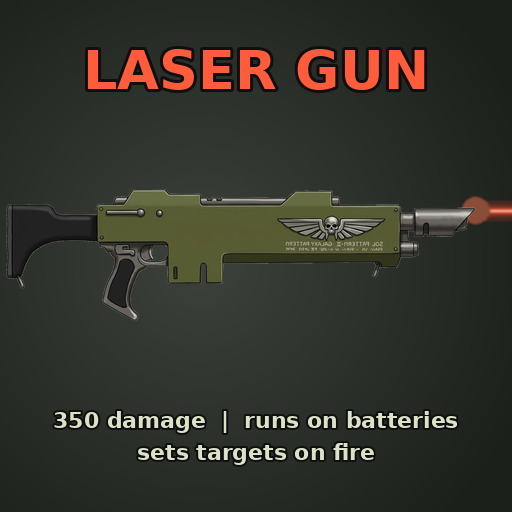
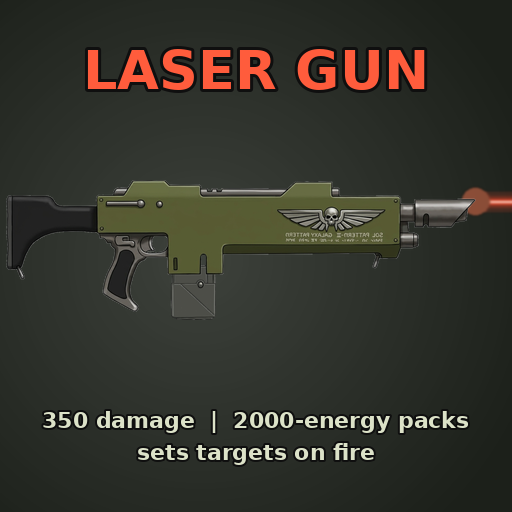
Fire from the battery (rifle may fire while charged, drains per shot), draw the pack on the gun, cover with the pack fitted
Claude-Session: https://claude.ai/code/session_01PqPi8SRqyZdJEsWyYG1nUx

diff --git a/src/Battery.cs b/src/Battery.cs
@@ -1,0 +1,129 @@
+using System;
+using System.Globalization;
+using System.IO;
+using UnityEngine;
+
+namespace LaserGun
+{
+    // Battery firing for the Laser Rifle, plus the battery pack drawn on the gun.
+    // The game keeps the loaded battery's charge on the weapon as the "WeaponBatteryDurability" property (0-100).
+    // Its own CanFire refuses the rifle even with a full battery, so the rifle is allowed to fire while that
+    // charge is above zero and it isn't reloading, and every shot takes 100 / ShotsPerBattery percent.
+    internal static class Battery
+    {
+        const string Key = "WeaponBatteryDurability";
+
+        internal static bool TryGet(ItemData d, out float pct)
+        {
+            pct = 0f;
+            var p = d?.itemPropertyPairs;
+            if (p == null) return false;
+            for (int i = 0; i < p.Count; i++)
+            {
+                var kv = p[i];
+                if (kv != null && kv.key == Key)
+                    return float.TryParse(kv.value, NumberStyles.Float, CultureInfo.InvariantCulture, out pct);
+            }
+            return false;
+        }
+
+        static void Set(ItemData d, float pct)
+        {
+            var p = d?.itemPropertyPairs;
+            if (p == null) return;
+            for (int i = 0; i < p.Count; i++)
+            {
+                var kv = p[i];
+                if (kv != null && kv.key == Key) { kv.value = pct.ToString("0.###", CultureInfo.InvariantCulture); return; }
+            }
+        }
+
+        static bool Mine(BasicRangedWeapon w)
+        {
+            var a = w?.weaponAttr;
+            return a != null && a.feedingType == ItemAttr_RangedWeapon.FeedingType.Battery && Weapons.IsLaser(a.itemId);
+        }
+
+        internal static void CanFire(BasicRangedWeapon w, ref bool result)
+        {
+            if (result || !Settings.Enabled.Value || !Mine(w)) return;
+            if (w.isReloading) return;
+            if (TryGet(w.weaponData, out var pct) && pct > 0.01f) result = true;
+        }
+
+        // Fire prefix/postfix: if the game itself didn't take charge for this shot, take it here.
+        internal static float Before(BasicRangedWeapon w)
+        {
+            if (!Mine(w)) return -1f;
+            return TryGet(w.weaponData, out var pct) ? pct : -1f;
+        }
+
+        internal static void After(BasicRangedWeapon w, float before)
+        {
+            if (before < 0f || !Mine(w)) return;
+            var d = w.weaponData;
+            if (!TryGet(d, out var now) || now < before - 0.0001f) return;
+            float per = 100f / Math.Max(1, Settings.ShotsPerBattery.Value);
+            Set(d, Math.Max(0f, before - per));
+            if (Settings.VerboseLog.Value) PLog.Debug($"Battery {before:0.##}% -> {Math.Max(0f, before - per):0.##}%");
+        }
+
+        // ---- the pack on the gun
+        static Sprite _sprite;
+        static bool _spriteFailed;
+        const string ChildName = "LaserGun_Pack";
+        // Where the pack sits, in rifle sprite pixels from the sprite's centre (ppu 230): under the body, at the slot.
+        static readonly Vector2 PackCentrePx = new Vector2(-38.5f, -36f);
+        const float PackWidthPx = 26f;
+
+        static Sprite PackSprite()
+        {
+            if (_sprite != null || _spriteFailed) return _sprite;
+            try
+            {
+                using var s = typeof(Battery).Assembly.GetManifestResourceStream("LaserGun.pack.png");
+                if (s == null) { _spriteFailed = true; PLog.Warn("Pack sprite resource missing"); return null; }
+                var ms = new MemoryStream(); s.CopyTo(ms);
+                var tex = new Texture2D(2, 2, TextureFormat.RGBA32, false);
+                if (!ImageConversion.LoadImage(tex, ms.ToArray())) { _spriteFailed = true; return null; }
+                tex.filterMode = FilterMode.Bilinear;
+                tex.hideFlags = HideFlags.HideAndDontSave;
+                var bb = new Rect(8, 2, 112, 140); // opaque part of the 128x144 canvas
+                float ppu = 230f * bb.width / PackWidthPx;
+                _sprite = Sprite.Create(tex, new Rect(bb.x, tex.height - bb.y - bb.height, bb.width, bb.height), new Vector2(0.5f, 0.5f), ppu);
+                _sprite.hideFlags = HideFlags.HideAndDontSave;
+            }
+            catch (Exception e) { _spriteFailed = true; PLog.Warn("Pack sprite failed: " + e.Message); }
+            return _sprite;
+        }
+
+        internal static void Draw(BasicRangedWeapon w)
+        {
+            if (!Settings.ShowPack.Value || !Mine(w)) return;
+            var body = w.weaponSpriteRenderer;
+            if (body == null) return;
+            var t = body.transform.Find(ChildName);
+            SpriteRenderer sr = t != null ? t.GetComponent<SpriteRenderer>() : null;
+            bool loaded = TryGet(w.weaponData, out var pct) && pct > 0.01f && !w.isReloading;
+            if (sr == null)
+            {
+                if (!loaded) return;
+                var sp = PackSprite(); if (sp == null) return;
+                var go = new GameObject(ChildName);
+                go.transform.SetParent(body.transform, false);
+                sr = go.AddComponent<SpriteRenderer>();
+                sr.sprite = sp;
+            }
+            sr.enabled = loaded && body.enabled;
+            if (!sr.enabled) return;
+            sr.sortingLayerID = body.sortingLayerID;
+            sr.sortingOrder = body.sortingOrder - 1;
+            sr.flipX = body.flipX; sr.flipY = body.flipY;
+            sr.color = body.color;
+            var c = PackCentrePx / 230f;
+            sr.transform.localPosition = new Vector3(body.flipX ? -c.x : c.x, body.flipY ? -c.y : c.y, 0f);
+            sr.transform.localRotation = Quaternion.identity;
+            sr.transform.localScale = Vector3.one;
+        }
+    }
+}

diff --git a/tools/make_cover.py b/tools/make_cover.py
@@ -1,0 +1,62 @@
+"""Workshop cover (workshop/preview.png): the rifle with its battery pack fitted, firing a beam.
+Uses art-src/laser-rifle-clean.png (make_rifle_from_reference.py) and the pack sprite cutout."""
+import os, numpy as np, cv2
+from PIL import Image, ImageDraw, ImageFilter, ImageFont
+HERE = os.path.dirname(os.path.abspath(__file__)); REPO = os.path.join(HERE, "..")
+K = 0.1408                      # full art -> game sprite scale
+ORIGIN = (75 - 466 * K, 99 - 376 * K)   # full art (0,0) in sprite canvas px
+PACK_CENTRE = (154.5 - 38.5, 73 + 36)   # sprite canvas px (matches Battery.PackCentrePx)
+PACK_W = 26
+
+def pack_cutout():
+    img = cv2.imread(os.path.join(REPO, "art-src", "laser-battery-pack-reference.png")); h, w = img.shape[:2]
+    white = (img.min(axis=2) > 232).astype(np.uint8)
+    n, lab = cv2.connectedComponents(white); bg = np.zeros_like(white)
+    for i in range(1, n):
+        ys, xs = np.nonzero(lab == i)
+        if ys.min() == 0 or xs.min() == 0 or ys.max() == h - 1 or xs.max() == w - 1: bg |= (lab == i).astype(np.uint8)
+    a = cv2.GaussianBlur(((1 - bg) * 255).astype(np.float32), (0, 0), 0.7).clip(0, 255).astype(np.uint8)
+    im = Image.fromarray(np.dstack([img[..., ::-1], a]), "RGBA")
+    return im.crop(im.getbbox())
+
+def gun_with_pack():
+    gun = Image.open(os.path.join(REPO, "art-src", "laser-rifle-clean.png"))
+    pk = pack_cutout()
+    pw = PACK_W / K; ph = pk.height * pw / pk.width
+    pk = pk.resize((round(pw), round(ph)), Image.LANCZOS)
+    cx = (PACK_CENTRE[0] - ORIGIN[0]) / K; cy = (PACK_CENTRE[1] - ORIGIN[1]) / K
+    W = max(gun.width, round(cx + pw / 2) + 2); H = max(gun.height, round(cy + ph / 2) + 2)
+    out = Image.new("RGBA", (W, H), (0, 0, 0, 0))
+    out.alpha_composite(pk, (round(cx - pw / 2), round(cy - ph / 2)))
+    out.alpha_composite(gun)
+    return out
+
+def main():
+    full = gun_with_pack()
+    a = np.array(full)[..., 3]; xr = np.nonzero(a.max(0) > 128)[0].max()
+    ys = np.nonzero(a[:, xr - 15:xr].max(1) > 128)[0]; my = (ys.min() + ys.max()) / 2
+    W = 512; out = Image.new("RGBA", (W, W), (28, 32, 26, 255)); g = ImageDraw.Draw(out)
+    for r in range(360, 0, -6):
+        k = int(34 * (1 - r / 360)); g.ellipse([200 - r, 260 - r, 200 + r, 260 + r], fill=(28 + k, 32 + k, 26 + k, 255))
+    bb = full.getbbox(); gun = full.crop(bb); sc = 470 / gun.width
+    gun = gun.resize((round(gun.width * sc), round(gun.height * sc)), Image.LANCZOS); ox = 6; oy = round(250 - gun.height / 2)
+    beam = Image.new("RGBA", (W, W), (0, 0, 0, 0)); bd = ImageDraw.Draw(beam)
+    y = oy + (my - bb[1]) * sc; x0 = ox + (xr - bb[0]) * sc
+    for w_, a_ in ((22, 40), (12, 90), (6, 200)): bd.line([(x0, y), (W, y)], fill=(255, 70, 40, a_), width=w_)
+    bd.line([(x0, y), (W, y)], fill=(255, 235, 220, 255), width=2); bd.ellipse([x0 - 14, y - 14, x0 + 14, y + 14], fill=(255, 120, 80, 120))
+    out.alpha_composite(beam.filter(ImageFilter.GaussianBlur(1.2))); out.alpha_composite(gun, (ox, oy))
+    f = ImageFont.truetype("DejaVuSans-Bold.ttf", 54); f2 = ImageFont.truetype("DejaVuSans-Bold.ttf", 22); g = ImageDraw.Draw(out)
+    g.text((W // 2, 70), "LASER GUN", font=f, fill=(255, 92, 60, 255), anchor="mm", stroke_width=3, stroke_fill=(15, 15, 15, 255))
+    g.text((W // 2, 420), "350 damage  |  2000-energy packs", font=f2, fill=(220, 226, 200, 255), anchor="mm", stroke_width=2, stroke_fill=(15, 15, 15, 255))
+    g.text((W // 2, 452), "sets targets on fire", font=f2, fill=(220, 226, 200, 255), anchor="mm", stroke_width=2, stroke_fill=(15, 15, 15, 255))
+    out.convert("RGB").save(os.path.join(REPO, "workshop", "preview.png"))
+    # also a check render of the in-game sprite with the pack (4x)
+    sp = Image.open(os.path.join(REPO, "items", "RangedWeapons", "rifle", "sprite.png"))
+    pk = pack_cutout(); ph = pk.height * PACK_W / pk.width
+    pk = pk.resize((PACK_W, round(ph)), Image.LANCZOS)
+    bg = Image.new("RGBA", sp.size, (60, 66, 52, 255))
+    bg.alpha_composite(pk, (round(PACK_CENTRE[0] - PACK_W / 2), round(PACK_CENTRE[1] - ph / 2))); bg.alpha_composite(sp)
+    return bg.resize((sp.width * 4, sp.height * 4), Image.NEAREST)
+
+if __name__ == "__main__":
+    main().save("/tmp/ingame_pack.png")

diff --git a/src/Patches.cs b/src/Patches.cs
@@ -13,6 +13,8 @@ namespace LaserGun
             Patch(h, typeof(BasicBullet), nameof(BasicBullet.OnHit), null, nameof(OnHit_Post));
             Patch(h, typeof(ModLoader), nameof(ModLoader.LoadAll), null, nameof(LoadAll_Post));
             Patch(h, typeof(BasicRangedWeapon), nameof(BasicRangedWeapon.CanFire), null, nameof(CanFire_Post));
+            Patch(h, typeof(BasicRangedWeapon), nameof(BasicRangedWeapon.Fire), nameof(Fire_Pre), nameof(Fire_Post));
+            Patch(h, typeof(BasicRangedWeapon), nameof(BasicRangedWeapon.LateUpdate), null, nameof(WeaponLate_Post));
             Patch(h, typeof(BasicRangedWeapon), nameof(BasicRangedWeapon.OnFireButtonDown), nameof(FireDown_Pre), null);
             Patch(h, typeof(BasicRangedWeapon), nameof(BasicRangedWeapon.Fire_EnergyWeapon), nameof(FireEnergy_Pre), null);
             Patch(h, typeof(BasicRangedWeapon), nameof(BasicRangedWeapon.Fire_Cartridge), nameof(FireCartridge_Pre), null);
@@ -42,8 +44,27 @@ namespace LaserGun
         static void FireEnergy_Pre(BasicRangedWeapon __instance) { try { Diag.Event(__instance, "Fire_EnergyWeapon"); } catch { } }
         static void FireCartridge_Pre(BasicRangedWeapon __instance) { try { Diag.Event(__instance, "Fire_Cartridge"); } catch { } }
 
-        static void CanFire_Post(BasicRangedWeapon __instance, bool __result)
+        static void Fire_Pre(BasicRangedWeapon __instance, out float __state)
         {
+            __state = -1f;
+            try { __state = Battery.Before(__instance); } catch (Exception e) { PLog.Debug("Battery pre failed: " + e.Message); }
+        }
+
+        static void Fire_Post(BasicRangedWeapon __instance, float __state)
+        {
+            try { Battery.After(__instance, __state); } catch (Exception e) { PLog.Debug("Battery drain failed: " + e.Message); }
+        }
+
+        static bool _drawWarned;
+        static void WeaponLate_Post(BasicRangedWeapon __instance)
+        {
+            try { Battery.Draw(__instance); }
+            catch (Exception e) { if (!_drawWarned) { _drawWarned = true; PLog.Warn("Pack drawing failed: " + e); } }
+        }
+
+        static void CanFire_Post(BasicRangedWeapon __instance, ref bool __result)
+        {
+            try { Battery.CanFire(__instance, ref __result); } catch (Exception e) { PLog.Debug("CanFire battery check failed: " + e.Message); }
             try { Diag.CanFire(__instance, __result); } catch (Exception e) { if (!_diagWarned) { _diagWarned = true; PLog.Warn("CanFire diag failed: " + e); } }
         }
 

diff --git a/src/Settings.cs b/src/Settings.cs
@@ -17,6 +17,7 @@ namespace LaserGun
         internal static ConfigEntry<string> SoundFile;
         internal static ConfigEntry<int> BatteryItemId, ShotsPerBattery, PackCapacity;
         internal static ConfigEntry<RangedWeaponType> WeaponType;
+        internal static ConfigEntry<bool> ShowPack;
         internal static ConfigEntry<float> EnergyPerSecond;
         internal static ConfigEntry<bool> VerboseLog;
 
@@ -43,6 +44,7 @@ namespace LaserGun
 
             IgniteGroundWithTarget = c.Bind("Fire", "IgniteGroundToo", false, "When a target catches fire, also light the ground under it (can spread through grass).");
 
+            ShowPack = c.Bind("Visuals", "ShowBatteryPack", true, "Draw the battery pack under the rifle while a charged battery is loaded.");
             Beam = c.Bind("Visuals", "Beam", true, "Draw a bright laser beam behind each shot.");
             BeamWidth = c.Bind("Visuals", "BeamWidth", 0.05f, new ConfigDescription("Width (m) of the beam.", R(0.005f, 0.5f)));
             BeamFade = c.Bind("Visuals", "BeamFade", 0.07f, new ConfigDescription("Seconds the beam stays on screen.", R(0.01f, 1)));

diff --git a/src/Power.cs b/src/Power.cs
@@ -188,9 +188,9 @@ namespace LaserGun
             float interval = gun.fireInterval > 0.001f ? gun.fireInterval : 0.15f;
             int shots = Math.Max(1, Settings.ShotsPerBattery.Value);
             if (Settings.EnergyPerSecond.Value > 0f) gun.batteryEnergyPerSec = Settings.EnergyPerSecond.Value;
-            else if (refCap > 0f) gun.batteryEnergyPerSec = refCap / (shots * interval);
+            else gun.batteryEnergyPerSec = 0.01f; // the mod takes 100/ShotsPerBattery % per shot itself (Battery.cs)
             sb.Append($" | reference battery: {(refCap > 0 ? $"{refName} {refCap:0.##}Wh" : "none found")}");
-            sb.Append($" | energy {gun.batteryEnergyPerSec:0.###} Wh/s of firing (~{shots} shots per reference battery at {interval:0.###}s/shot)");
+            sb.Append($" | game drain {gun.batteryEnergyPerSec:0.###}/s, mod drain {100f / shots:0.##}% per shot (~{shots} shots per battery)");
             PLog.Info(sb.ToString());
         }
     }
